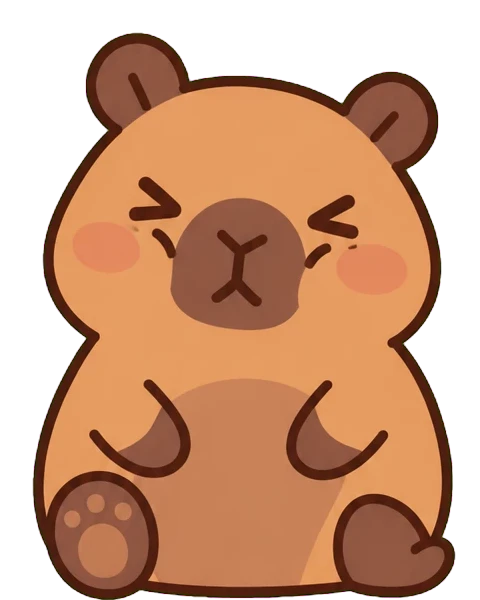
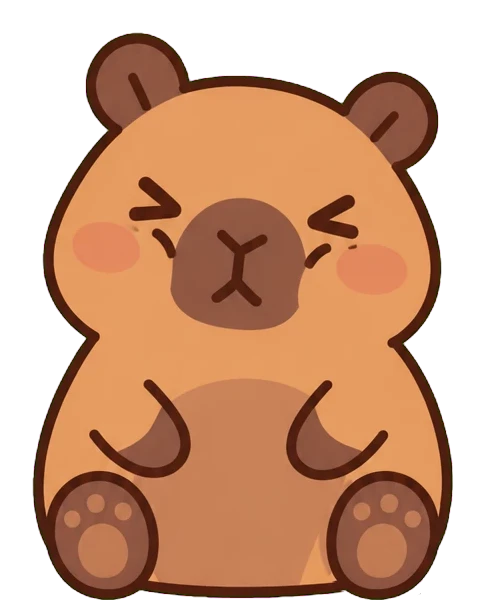
fix: 몸에 힘 빼기 포즈의 오른발을 동그랗게 고친다
포즈 시트 A 의 넷(기본 · 주먹 · 어깨 · 얼굴)은 왼발만 동그란 발바닥이 보이는 정면이고
오른발은 옆모습 발끝처럼 삐죽 튀어나와 있었다(실기기 피드백). 다시 생성하면 다른 포즈와
비율 · 색이 어긋날 수 있어서, 몸의 가운데 선을 축으로 왼발을 뒤집어 오른발 자리에 발
모양(타원)대로만 덮는다(`mirror_right_foot`). 스크립트를 다시 돌려 바뀐 그림은 이 넷뿐이다.

Changed region(s): [[0.6562, 0.78, 0.9688, 1.0]]

diff --git a/scripts/keyout-body-release.py b/scripts/keyout-body-release.py
@@ -26,6 +26,14 @@
 **발밑을 상자 바닥에, 머리 가운데를 상자 가운데에** 맞춘다 — 포즈를 갈아 끼울 때 몸이
 옆으로 튀거나 떠오르지 않는다. 다리를 뻗은 포즈가 가장 넓어서 상자 폭은 그걸 담는다.
 
+## 오른발을 고쳐 쓴다 (2026-10-05 · 사용자 피드백)
+
+포즈 시트 A 의 넷(기본 · 주먹 · 어깨 · 얼굴)은 왼발만 동그란 발바닥이 보이는 정면이고
+오른발은 옆모습 발끝처럼 삐죽 튀어나와 있었다(시트 B 셋은 두 발 다 동그랗다). 몸의 가운데
+선(발 위 몸통의 좌우 끝 한가운데)을 축으로 왼발을 뒤집어 오른발 자리에 **발 모양(타원)대로만**
+덮고, 그래도 남는 옛 발끝은 그 아래만 덮는다(`mirror_right_foot`). 걱정상자의 처음 자세도 같은
+그림이라 같은 방식으로 고친다(`keyout-worry-box.py`).
+
 다시 만들 때: `python3 scripts/keyout-body-release.py` (Pillow · numpy 필요).
 빌드에 끼지 않는다.
 """
@@ -85,6 +93,31 @@ def keyout(name: str) -> np.ndarray:
     return out
 
 
+# 오른발이 삐죽한 포즈 — 시트 A 의 넷
+POINTY_FOOT = {"neutral", "hands", "shoulders", "face"}
+
+
+def mirror_right_foot(box: np.ndarray) -> np.ndarray:
+    """왼발을 몸의 가운데 선으로 뒤집어 오른발 자리에 덮는다"""
+    h, w = box.shape[:2]
+    img = box.astype(np.float32)
+    alpha = box[..., 3] > 128
+    bottom = np.where(alpha.any(axis=1))[0].max()
+    # 발 위 몸통의 좌우 끝 한가운데 — 발끝이 삐죽해도 흔들리지 않는다
+    row = np.where(alpha[bottom - 110])[0]
+    axis = (row.min() + row.max()) / 2
+    src = np.clip(np.round(2 * axis - np.arange(w)).astype(int), 0, w - 1)
+    mirrored = img[:, src]
+    yy, xx = np.mgrid[0:h, 0:w]
+    # 왼발(가운데 선에서 왼쪽 141 · 바닥에서 61 · 반지름 63 × 67)을 뒤집은 자리
+    cx, cy, rx, ry = axis + 141, bottom - 61, 63, 67
+    d = np.sqrt(((xx - cx) / rx) ** 2 + ((yy - cy) / ry) ** 2)
+    foot = np.clip((1.0 - d) / 0.05 + 1, 0, 1)
+    tip = np.clip((xx - (cx + 34)) / 4, 0, 1) * np.clip((yy - (cy - 27)) / 4, 0, 1)
+    weight = np.maximum(foot, tip)[..., None]
+    return np.clip(img * (1 - weight) + mirrored * weight, 0, 255).astype(np.uint8)
+
+
 def bbox(alpha: np.ndarray):
     ys = np.where((alpha > 128).any(axis=1))[0]
     xs = np.where((alpha > 128).any(axis=0))[0]
@@ -114,6 +147,8 @@ def main() -> None:
         ty, tx = ys + dy, xs + dx
         ok = (ty >= 0) & (ty < BOX_H) & (tx >= 0) & (tx < BOX_W)
         box[ty[ok], tx[ok]] = q[ys[ok], xs[ok]]
+        if pose in POINTY_FOOT:
+            box = mirror_right_foot(box)
         Image.fromarray(box).save(ROOT / f"capybara-{pose}.webp", quality=90)
         print(pose, "bottom", bottom, "head-center", cx, "clipped", int((~ok).sum()))
 
